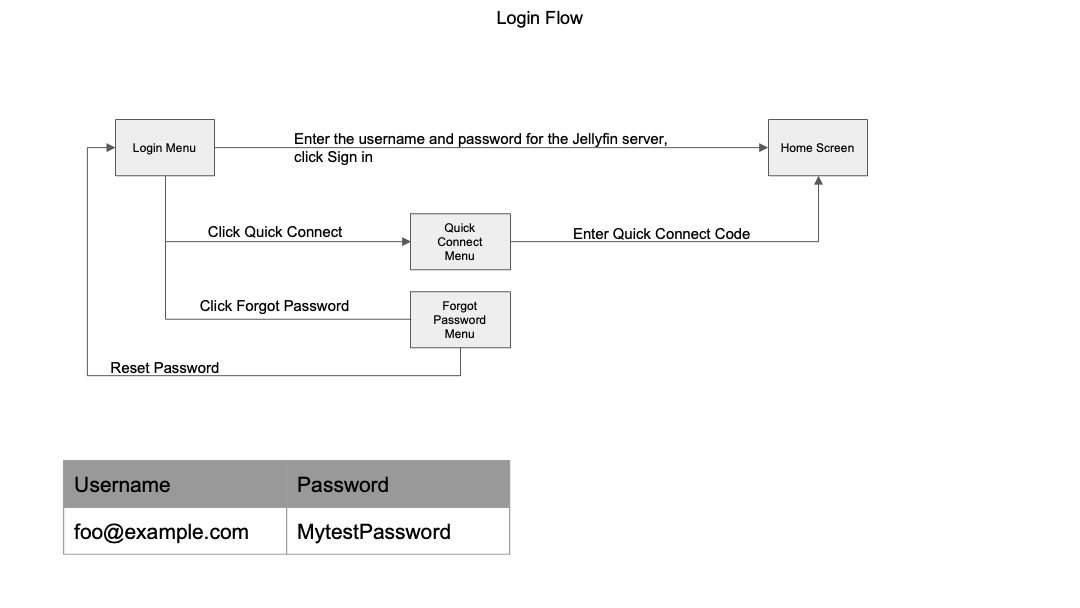
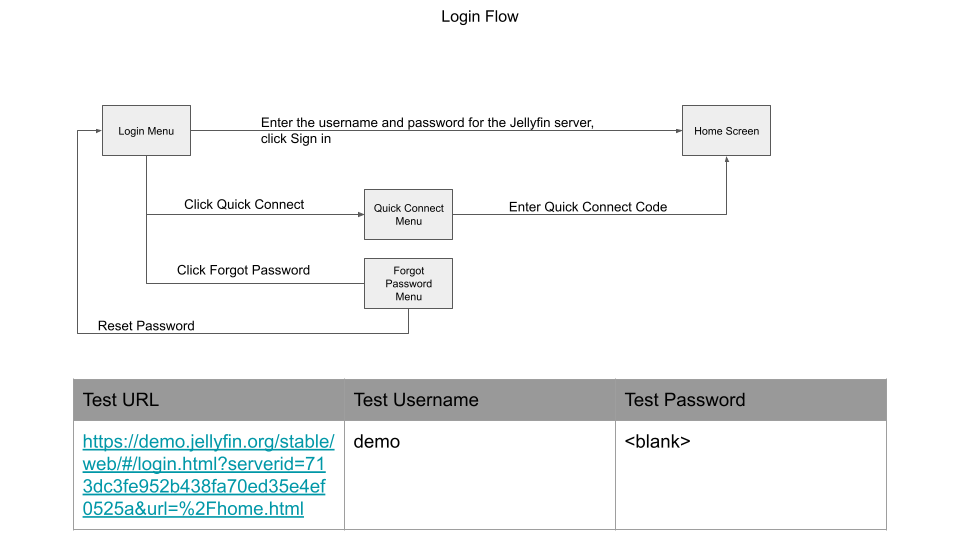
Updated image and table with demo creds

diff --git a/Documentation/App UI Description/2- Use Cases/README.md b/Documentation/App UI Description/2- Use Cases/README.md
@@ -32,9 +32,9 @@ Example:
 
 ## Additional requirements
  
-| Application Feature | Required Information(missing information causes application rejection) |
-| ------------------- | ---------------------------------------------------------------------- |
-| User login | <ul><li>Test account with a valid user ID and password</li></ul> |
+| Application Feature | Required Information(missing information causes application rejection) | NOTES |
+| ------------------- | ---------------------------------------------------------------------- |------- |
+| User login | <ul><li>Test account with a valid user ID and password</li></ul> | [Demo link](https://demo.jellyfin.org/stable/web/#/login.html?serverid=713dc3fe952b438fa70ed35e4ef0525a&url=%2Fhome.html) user = demo - password is blank [Image Here](./Screenshots/Slide05.png)| 
 | Device activation | <ul><li>Test account that permits an unlimited number of activated devices</li><li>Instructions for activating the device at an external website, if needed</li></ul> |
 | In-app purchases | <ul><li>Valid credit card information for testing</li><li>Test account with funds available for making purchases</li><li>Valid coupon or promotional codes, if supported</li></ul> |
 | Gaming | <ul><li>Cheat codes or master account for accessing all game levels</li><li>List of correct responses to any trivia questions</li></ul> |
